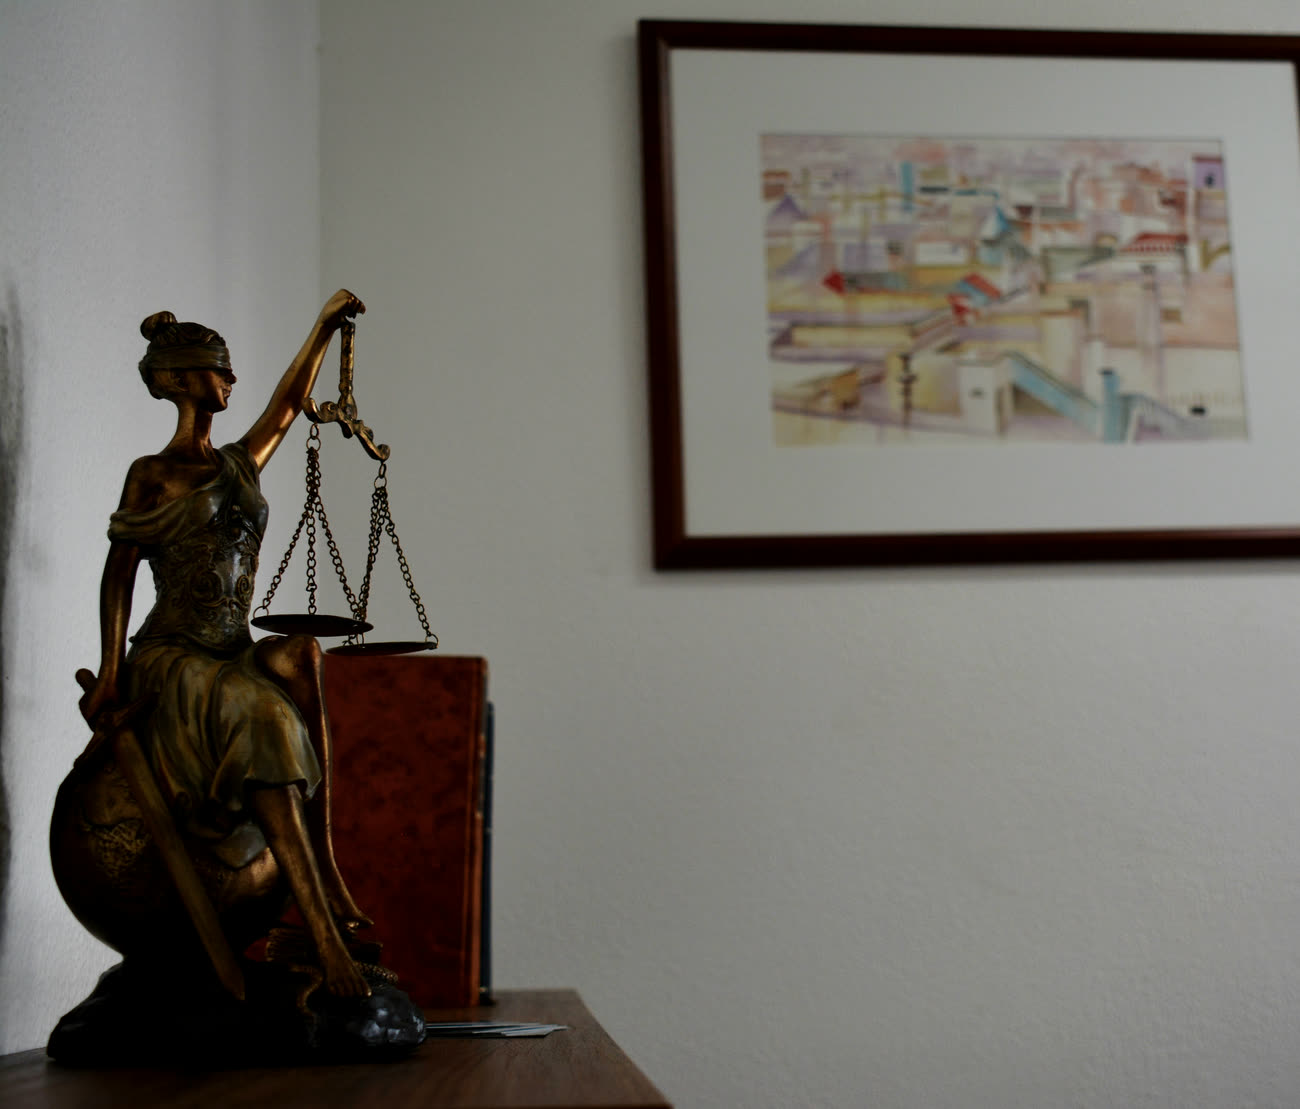
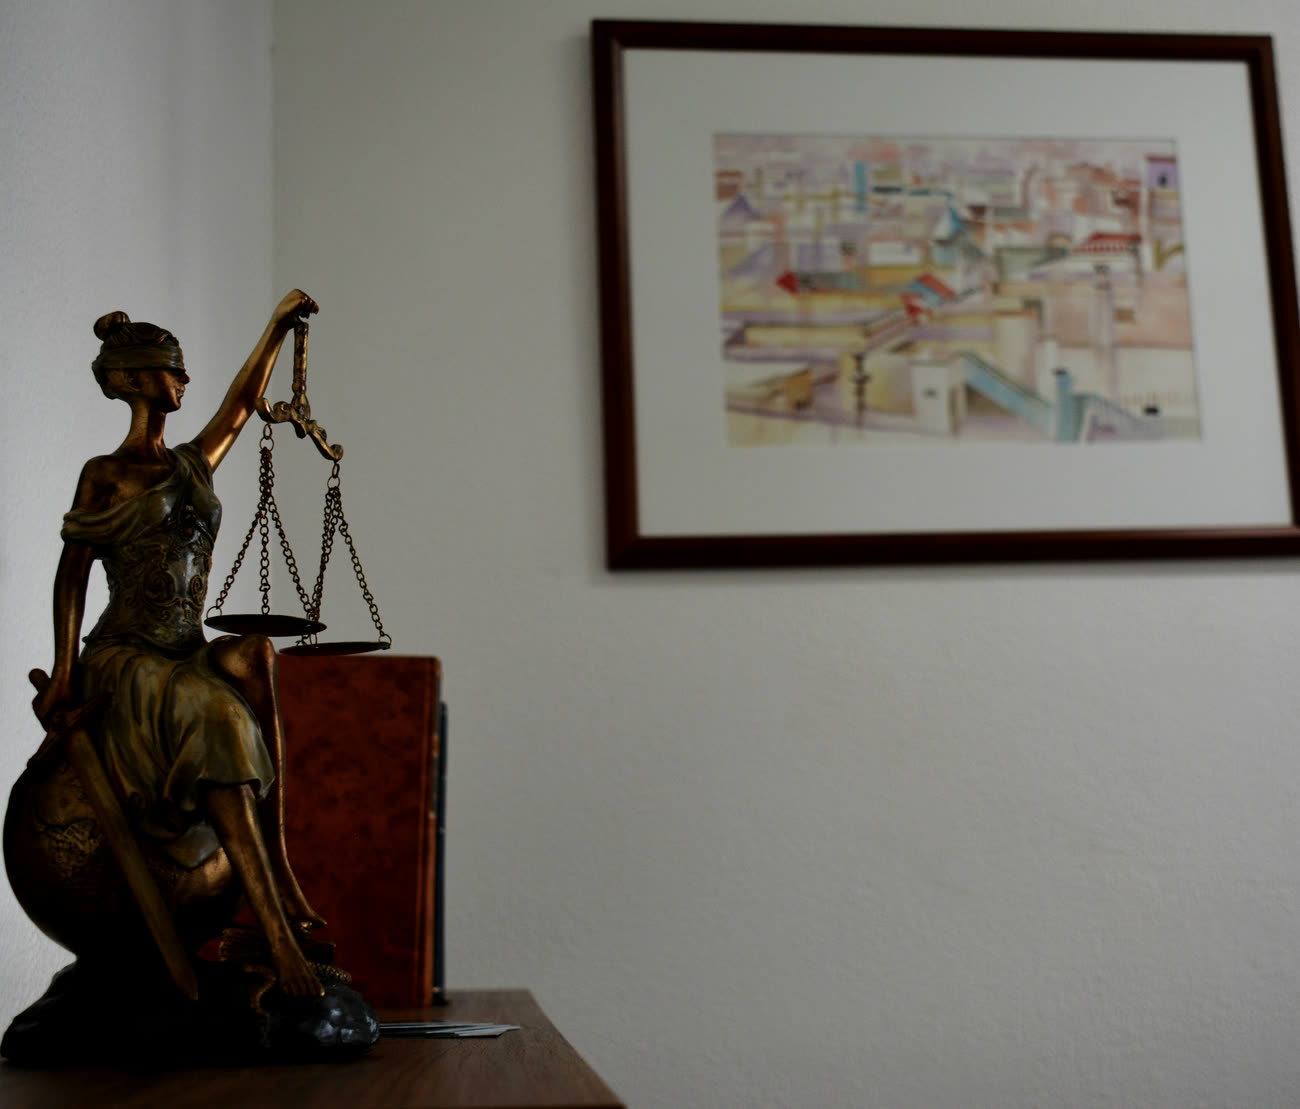
Sobre nós: recorte da foto sem a faixa escura à esquerda

diff --git a/sobre.html b/sobre.html
@@ -70,7 +70,7 @@
         <p data-i18n="sobre.hist.p3">A PFLR desenvolve a sua atividade numa estrutura que privilegia o contacto direto com os clientes, a análise individualizada dos assuntos e o acompanhamento atento das diferentes fases de cada intervenção jurídica.</p>
       </div>
     </div>
-    <figure class="photo fluted has-photo"><img class="ph-img" src="assets/img/fotos/sobre.jpg?v=6" alt="Estátua da Justiça no escritório da PFLR, Rua Pascoal de Melo" loading="lazy" decoding="async" width="1300" height="1109" style="object-position:30% 50%"></figure>
+    <figure class="photo fluted has-photo"><img class="ph-img" src="assets/img/fotos/sobre.jpg?v=7" alt="Estátua da Justiça no escritório da PFLR, Rua Pascoal de Melo" loading="lazy" decoding="async" width="1300" height="1109" style="object-position:30% 50%"></figure>
   </div>
 </section>
 
